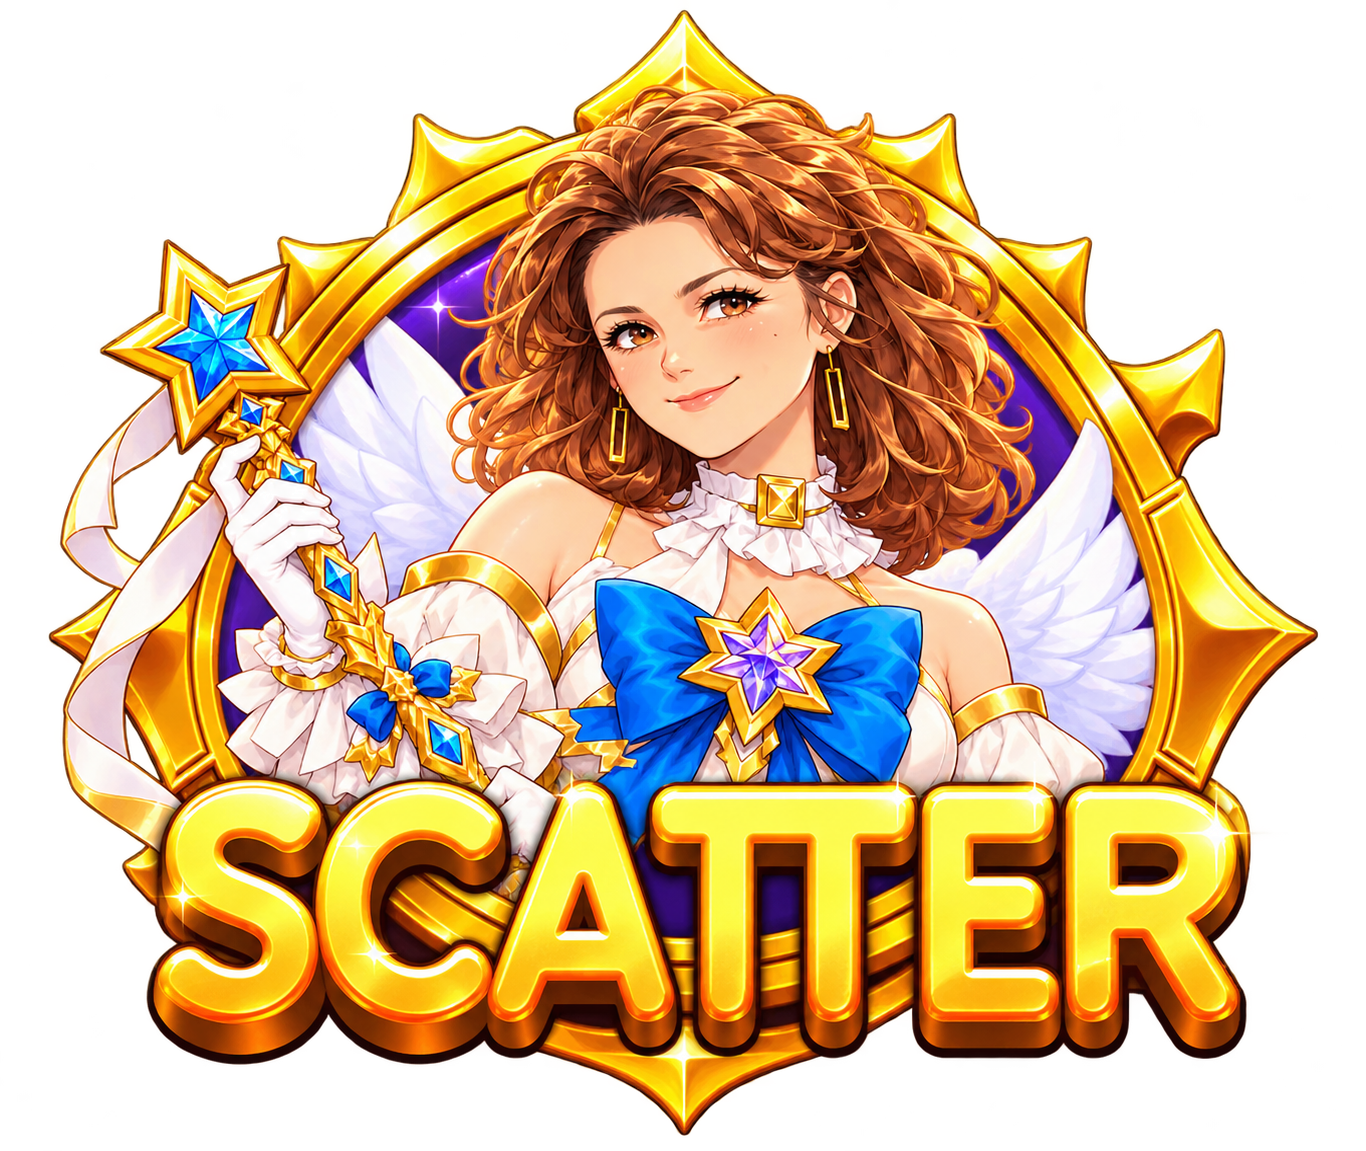
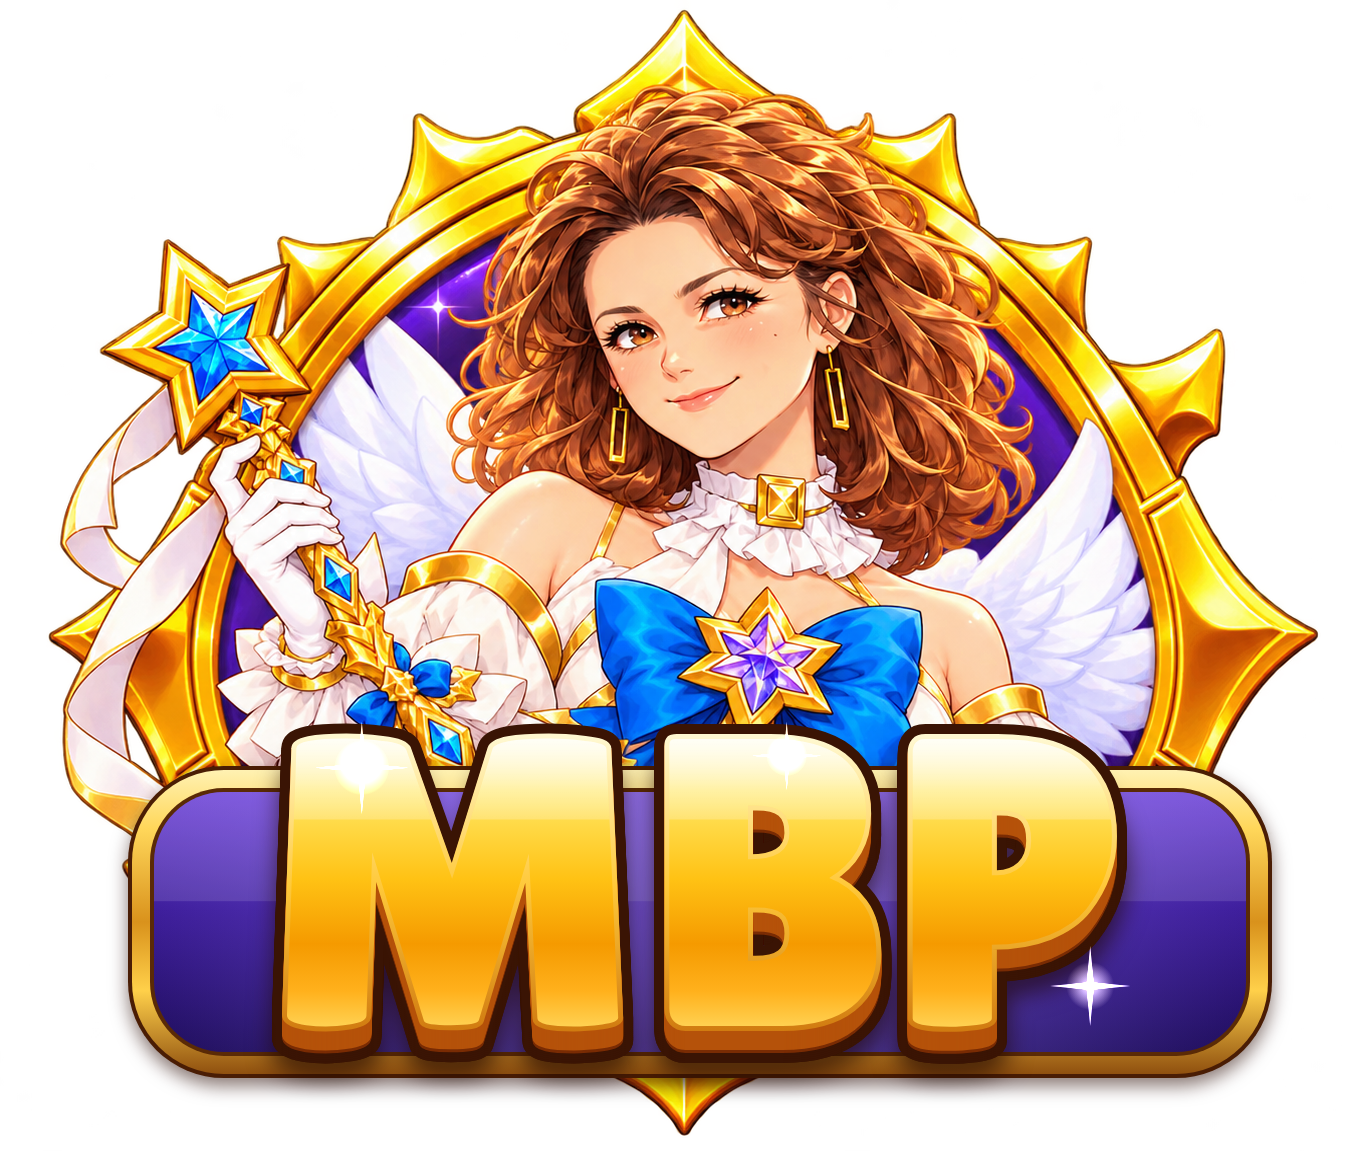
Call the scatter symbol MBP: new lettering and text (#9)
* Letter the scatter symbol MBP instead of SCATTER

The scatter painting had SCATTER painted across its foot. A new script,
scripts/render-scatter-art.mjs, starts from that painting and covers the
old word with a gold-rimmed purple nameplate carrying MBP in glossy gold
Lilita One letters.

Claude-Session: https://claude.ai/code/session_012j3dd2uz68efuRjGf5BuTP

* Call the scatter MBP in the side panel and the rules

Claude-Session: https://claude.ai/code/session_012j3dd2uz68efuRjGf5BuTP

---------

Changed region(s): [[0.0615, 0.6082, 0.9531, 0.9731]]

diff --git a/index.html b/index.html
@@ -26,9 +26,9 @@
     <p class="jackpot-detail" role="status"></p>
     <div class="jackpot-gems"></div>
     <div class="bonus-rules" hidden>
-      <p>4+ SCATTER symbols award 15 free spins. In free spins, 3+ SCATTERs add 5 more spins.</p>
-      <p>4 / 5 / 6+ SCATTERs pay 3x / 5x / 100x the base bet.</p>
-      <p>On a winning tumble sequence, all orbs add together and multiply the symbol win. In free spins their values accumulate; the running total applies whenever a new orb lands with a symbol win. SCATTER payouts are added separately.</p>
+      <p>4+ MBP symbols award 15 free spins. In free spins, 3+ MBP symbols add 5 more spins.</p>
+      <p>4 / 5 / 6+ MBP symbols pay 3x / 5x / 100x the base bet.</p>
+      <p>On a winning tumble sequence, all orbs add together and multiply the symbol win. In free spins their values accumulate; the running total applies whenever a new orb lands with a symbol win. MBP payouts are added separately.</p>
       <p>Double chance costs 25% more and increases natural free-spin chances. Turn it off to buy 15 free spins for 100x the base bet.</p>
       <p>Slot rounds are capped at 5,000x the base bet, including all free spins and the triggering spin. Big, Superb, Mega and Sensational wins are celebrated at 20x, 35x, 50x and 100x.</p>
       <p>Wingrid jackpots are separate play-credit prizes. Paid spins contribute 1% of their cost to four shared pools (0.4% Minor, 0.3% Major, 0.2% Mega, 0.1% Grand). Pools start at 25 / 100 / 500 / 2,500 credits and cap at 100 / 500 / 2,500 / 10,000.</p>

diff --git a/src/client/bonuses.js b/src/client/bonuses.js
@@ -28,7 +28,7 @@ export function createBonuses({ pick, onState, onError, react }) {
     hud.classList.toggle('is-free', !!f);
     hud.querySelector('.feature-status').textContent = f
       ? `${f.left} FREE SPINS LEFT · TOTAL ${f.totalMult}x · WON ${money(f.won)}`
-      : 'MULTIPLIERS 2x–500x · 4 SCATTERS = 15 FREE SPINS';
+      : 'MULTIPLIERS 2x–500x · 4 MBP = 15 FREE SPINS';
     meter.textContent = `${f?.totalMult ?? displayMult}×`;
     hud.querySelector('.jackpot-pools').replaceChildren(...(state.jackpots || cfg.jackpots.tiers).map(tier => {
       const row = document.createElement('div'), name = document.createElement('span'), amount = document.createElement('strong');
